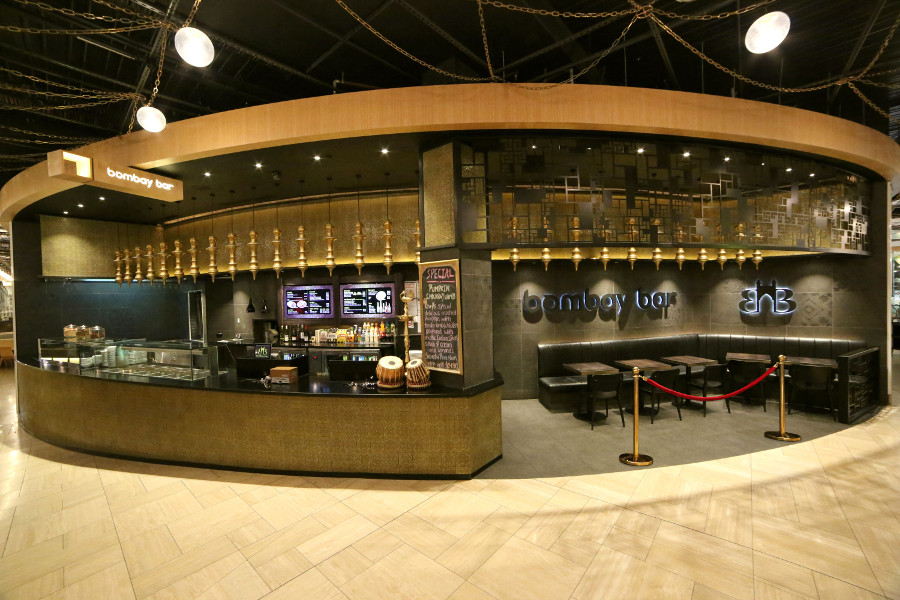
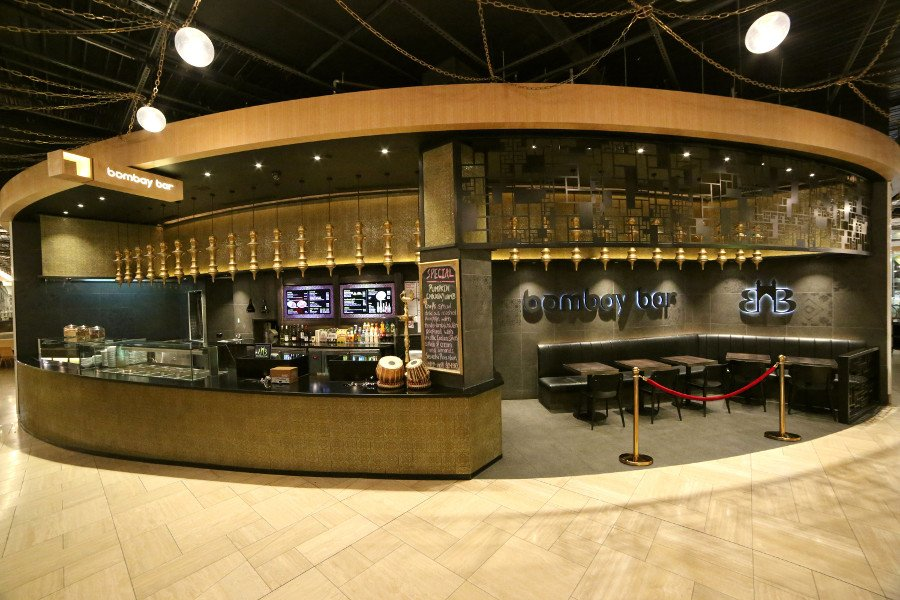
Images optimised

diff --git a/js/global.js b/js/global.js
@@ -45,7 +45,7 @@ function leaveLogo() {
 
 function hoverFood() {
     if (navmenuAnimated && width > 500) {
-        document.getElementById("ic_food").src='images/Cutlery_colour.png';
+        document.getElementById("ic_food").src='images/cutlery_colour.png';
         // Velocity(document.getElementById("nav_food"), { color: '#efcc82' }, { duration: 0 });
         Velocity(document.getElementById("nav_food"), { fontSize: 32 }, { duration: 300 });
         Velocity(document.getElementById("ic_food"), { width: 45 }, { duration: 300 });
@@ -53,7 +53,7 @@ function hoverFood() {
 }
 function leaveFood() {
     if (navmenuAnimated && width > 500) {
-        document.getElementById("ic_food").src='images/Cutlery.png';
+        document.getElementById("ic_food").src='images/cutlery.png';
         // Velocity(document.getElementById("nav_food"), { color: '#000' }, { duration: 0 });
         Velocity(document.getElementById("nav_food"), { fontSize: 25 }, { duration: 200 });
         Velocity(document.getElementById("ic_food"), { width: 40 }, { duration: 200 });
@@ -62,7 +62,7 @@ function leaveFood() {
 
 function hoverGallery() {
     if (navmenuAnimated && width > 500) {
-        document.getElementById("ic_gallery").src='images/Camera_colour.png';
+        document.getElementById("ic_gallery").src='images/camera_colour.png';
         // Velocity(document.getElementById("nav_gallery"), { color: '#efcc82' }, { duration: 0 });
         Velocity(document.getElementById("nav_gallery"), { fontSize: 32 }, { duration: 300 });
         Velocity(document.getElementById("ic_gallery"), { width: 45 }, { duration: 300 });
@@ -70,7 +70,7 @@ function hoverGallery() {
 }
 function leaveGallery() {
     if (navmenuAnimated && width > 500) {
-        document.getElementById("ic_gallery").src='images/Camera.png';
+        document.getElementById("ic_gallery").src='images/camera.png';
         // Velocity(document.getElementById("nav_gallery"), { color: '#000' }, { duration: 0 });
         Velocity(document.getElementById("nav_gallery"), { fontSize: 25 }, { duration: 200 });
         Velocity(document.getElementById("ic_gallery"), { width: 40 }, { duration: 200 });
@@ -79,7 +79,7 @@ function leaveGallery() {
 
 function hoverAbout() {
     if (navmenuAnimated && width > 500) {
-        document.getElementById("ic_about").src='images/Envelope_colour.png';
+        document.getElementById("ic_about").src='images/envelope_colour.png';
         // Velocity(document.getElementById("nav_about"), { color: '#efcc82' }, { duration: 0 });
         Velocity(document.getElementById("nav_about"), { fontSize: 32 }, { duration: 300 });
         Velocity(document.getElementById("ic_about"), { width: 45 }, { duration: 300 });
@@ -87,7 +87,7 @@ function hoverAbout() {
 }
 function leaveAbout() {
     if (navmenuAnimated && width > 500) {
-        document.getElementById("ic_about").src='images/Envelope.png';
+        document.getElementById("ic_about").src='images/envelope.png';
         // Velocity(document.getElementById("nav_about"), { color: '#000' }, { duration: 0 });
         Velocity(document.getElementById("nav_about"), { fontSize: 25 }, { duration: 200 });
         Velocity(document.getElementById("ic_about"), { width: 40 }, { duration: 200 });

diff --git a/about.html b/about.html
@@ -37,16 +37,16 @@
     <hr>
       <strong><div id="slogan">Bombay Bar is an upcoming brand of North Indian food outlets. We provide quality food that is comparable to the best fine dining Indian restaurants in Australia.</div></strong>
     <hr>
-    Get in touch by emailing <strong><a href="mailto:shailendra@bombaybar.com.au">shailendra@bombaybar.com.au</a></strong>
+    Get in touch with us by emailing <strong><a href="mailto:shailendra@bombaybar.com.au">shailendra@bombaybar.com.au</a></strong>
   </div>
 
   <div id="map"></div>
 
   <div id="nav-menu">
     <a id="nav_logo" onmouseover="hoverLogo()" onmouseleave="leaveLogo()" href="index.html"><img src="images/logo_icon.png" id="ic_logo">HOME</a>
-    <a id="nav_food" onmouseover="hoverFood()" onmouseleave="leaveFood()" href="food.html"><img src="images/Cutlery.png" id="ic_food">FOOD</a>
-    <a id="nav_gallery" onmouseover="hoverGallery()" onmouseleave="leaveGallery()" href="gallery.html"><img src="images/Camera.png" id="ic_gallery">GALLERY</a>
-    <a id="nav_about" onmouseover="hoverAbout()" onmouseleave="leaveAbout()" href="about.html"><img src="images/Envelope.png" id="ic_about">ABOUT</a>
+    <a id="nav_food" onmouseover="hoverFood()" onmouseleave="leaveFood()" href="food.html"><img src="images/cutlery.png" id="ic_food">FOOD</a>
+    <a id="nav_gallery" onmouseover="hoverGallery()" onmouseleave="leaveGallery()" href="gallery.html"><img src="images/camera.png" id="ic_gallery">GALLERY</a>
+    <a id="nav_about" onmouseover="hoverAbout()" onmouseleave="leaveAbout()" href="about.html"><img src="images/envelope.png" id="ic_about">ABOUT</a>
   </div>
 
   <script async defer

diff --git a/food.html b/food.html
@@ -61,9 +61,9 @@
 
   <div id="nav-menu">
     <a id="nav_logo" onmouseover="hoverLogo()" onmouseleave="leaveLogo()" href="index.html"><img src="images/logo_icon.png" id="ic_logo">HOME</a>
-    <a id="nav_food" onmouseover="hoverFood()" onmouseleave="leaveFood()" href="food.html"><img src="images/Cutlery.png" id="ic_food">FOOD</a>
-    <a id="nav_gallery" onmouseover="hoverGallery()" onmouseleave="leaveGallery()" href="gallery.html"><img src="images/Camera.png" id="ic_gallery">GALLERY</a>
-    <a id="nav_about" onmouseover="hoverAbout()" onmouseleave="leaveAbout()" href="about.html"><img src="images/Envelope.png" id="ic_about">ABOUT</a>
+    <a id="nav_food" onmouseover="hoverFood()" onmouseleave="leaveFood()" href="food.html"><img src="images/cutlery.png" id="ic_food">FOOD</a>
+    <a id="nav_gallery" onmouseover="hoverGallery()" onmouseleave="leaveGallery()" href="gallery.html"><img src="images/camera.png" id="ic_gallery">GALLERY</a>
+    <a id="nav_about" onmouseover="hoverAbout()" onmouseleave="leaveAbout()" href="about.html"><img src="images/envelope.png" id="ic_about">ABOUT</a>
   </div>
 </body>
 </html>

diff --git a/gallery.html b/gallery.html
@@ -68,9 +68,9 @@
 
   <div id="nav-menu">
     <a id="nav_logo" onmouseover="hoverLogo()" onmouseleave="leaveLogo()" href="index.html"><img src="images/logo_icon.png" id="ic_logo">HOME</a>
-    <a id="nav_food" onmouseover="hoverFood()" onmouseleave="leaveFood()" href="food.html"><img src="images/Cutlery.png" id="ic_food">FOOD</a>
-    <a id="nav_gallery" onmouseover="hoverGallery()" onmouseleave="leaveGallery()" href="gallery.html"><img src="images/Camera.png" id="ic_gallery">GALLERY</a>
-    <a id="nav_about" onmouseover="hoverAbout()" onmouseleave="leaveAbout()" href="about.html"><img src="images/Envelope.png" id="ic_about">ABOUT</a>
+    <a id="nav_food" onmouseover="hoverFood()" onmouseleave="leaveFood()" href="food.html"><img src="images/cutlery.png" id="ic_food">FOOD</a>
+    <a id="nav_gallery" onmouseover="hoverGallery()" onmouseleave="leaveGallery()" href="gallery.html"><img src="images/camera.png" id="ic_gallery">GALLERY</a>
+    <a id="nav_about" onmouseover="hoverAbout()" onmouseleave="leaveAbout()" href="about.html"><img src="images/envelope.png" id="ic_about">ABOUT</a>
   </div>
 
 

diff --git a/index.html b/index.html
@@ -59,9 +59,9 @@
   <img id="logo" src="images/logo.png">
 
   <div id="nav-menu">
-    <a id="nav_food" onmouseover="hoverFood()" onmouseleave="leaveFood()" href="food.html"><img src="images/Cutlery.png" id="ic_food">FOOD</a>
-    <a id="nav_gallery" onmouseover="hoverGallery()" onmouseleave="leaveGallery()" href="gallery.html"><img src="images/Camera.png" id="ic_gallery">GALLERY</a>
-    <a id="nav_about" onmouseover="hoverAbout()" onmouseleave="leaveAbout()" href="about.html"><img src="images/Envelope.png" id="ic_about">ABOUT</a>
+    <a id="nav_food" onmouseover="hoverFood()" onmouseleave="leaveFood()" href="food.html"><img src="images/cutlery.png" id="ic_food">FOOD</a>
+    <a id="nav_gallery" onmouseover="hoverGallery()" onmouseleave="leaveGallery()" href="gallery.html"><img src="images/camera.png" id="ic_gallery">GALLERY</a>
+    <a id="nav_about" onmouseover="hoverAbout()" onmouseleave="leaveAbout()" href="about.html"><img src="images/envelope.png" id="ic_about">ABOUT</a>
   </div>
 </body>
 </html>

diff --git a/css/global.css b/css/global.css
@@ -38,9 +38,12 @@ body {
     filter: alpha(opacity=0); /* For IE8 and earlier */
 }
 #nav-menu #ic_food {
-    padding-right: 3px;
+    padding-left: 8px;
+    padding-right: 8px;
 }
 #nav-menu #ic_logo {
-    width: 55px;
+    width: 50px;
+    padding-left: 8px;
+    padding-right: 8px;
 }
 
